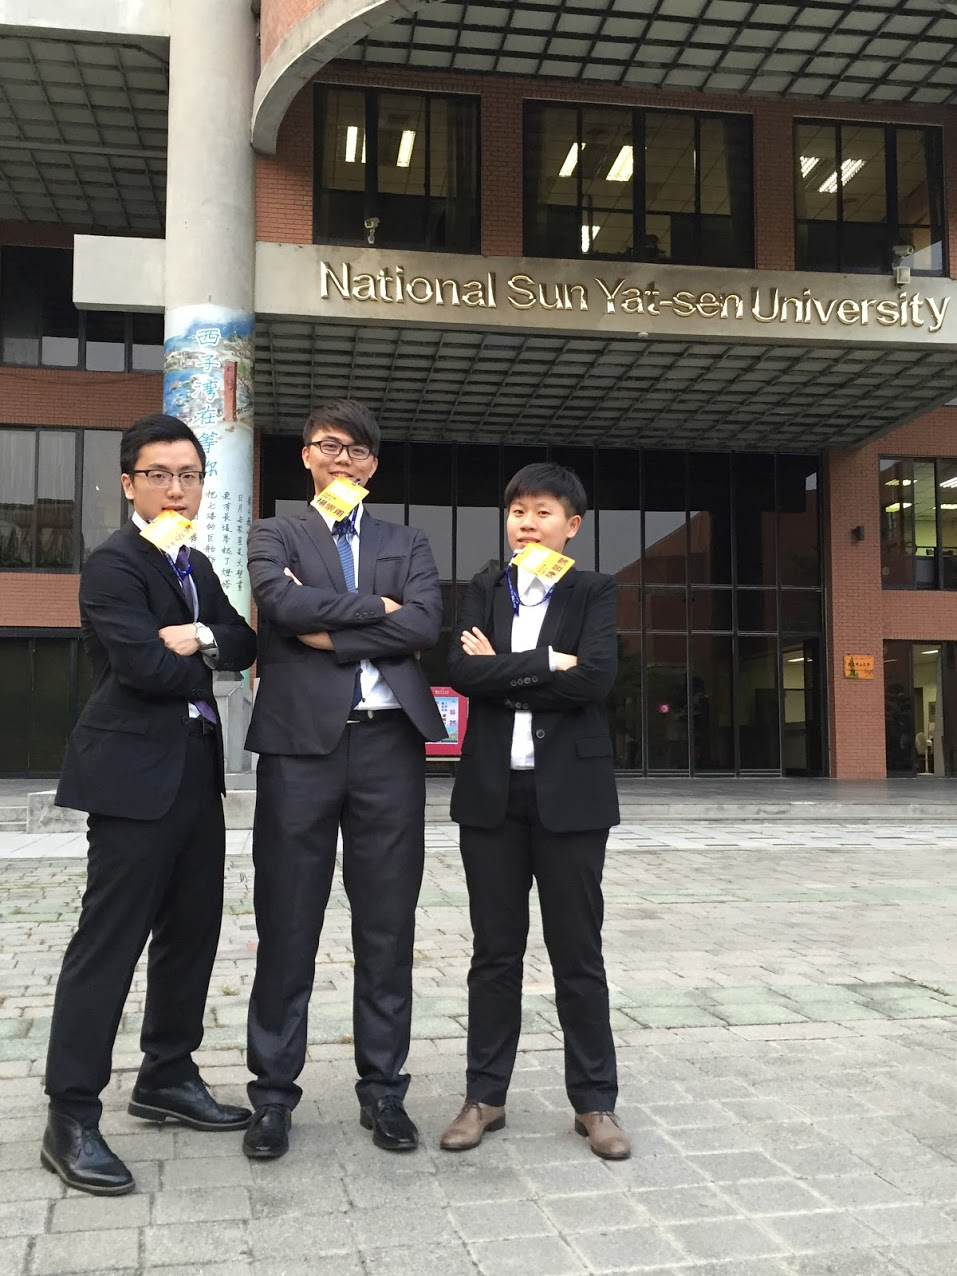
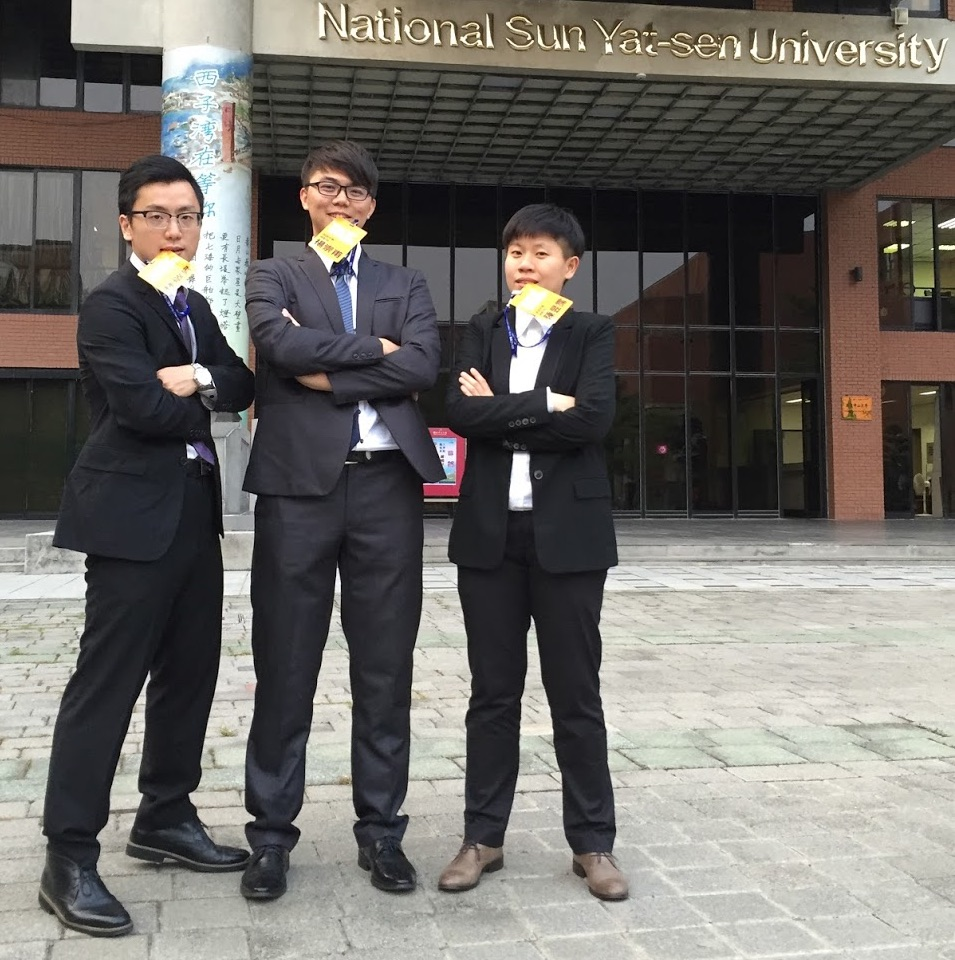
photo & 2016DSC updated

diff --git a/index.html b/index.html
@@ -31,7 +31,7 @@
 							<ul>
 								<li><a href="index.html">Home</a></li>
 								<li><a href="#member">成員介紹</a></li>
-								<li><a href="#intro">關於中心</a></li>
+								<li><a href="#banner">關於中心</a></li>
 								<li><a href="#activity">團隊活動</a></li>
 								<li><a href="#result">研究成果</a></li>
 							</ul>
@@ -39,7 +39,7 @@
 				</div>
 
 			<!-- Banner -->
-				<section id="banner">
+				<section id="banner" >
 					<header>
 						<h2>Hi All !</h2>
 						<p>
@@ -57,81 +57,71 @@
 							<header>
 								<h3><a href="#">LIN - 林敬昇</a></h3>
 							</header>
-							<p>團隊角色：團隊領導(2015 - 2016)<br>
-								 專長項目：資料清理、資料視覺化
-								 目前狀態：已畢</p>
 						</article>
 
 						<article>
-							<a href="#" class="image featured"><img src="images/pic02.jpg" alt="" /></a>
+							<a href="#" class="image featured"><img src="images/alger.jpg" alt="" /></a>
 							<header>
-								<h3><a href="#">Fermentum sagittis proin</a></h3>
+								<h3><a href="#">Alger - 楊崇甫</a></h3>
 							</header>
-							<p>Commodo id natoque malesuada sollicitudin elit suscipit magna.</p>
 						</article>
 
 						<article>
-							<a href="#" class="image featured"><img src="images/pic03.jpg" alt="" /></a>
+							<a href="#" class="image featured"><img src="images/gu.jpg" alt="" /></a>
 							<header>
-								<h3><a href="#">Sed quis rhoncus placerat</a></h3>
+								<h3><a href="#">GU - 陳昱霈</a></h3>
 							</header>
-							<p>Commodo id natoque malesuada sollicitudin elit suscipit magna.</p>
 						</article>
 
 						<article>
-							<a href="#" class="image featured"><img src="images/pic04.jpg" alt="" /></a>
+							<a href="#" class="image featured"><img src="images/horse.jpg" alt="" /></a>
 							<header>
-								<h3><a href="#">Ultrices urna sit lobortis</a></h3>
+								<h3><a href="#">Yin Yee</a></h3>
 							</header>
-							<p>Commodo id natoque malesuada sollicitudin elit suscipit magna.</p>
+
 						</article>
 
 						<article>
-							<a href="#" class="image featured"><img src="images/pic05.jpg" alt="" /></a>
+							<a href="#" class="image featured"><img src="images/00.jpg" alt="" /></a>
 							<header>
-								<h3><a href="#">Varius magnis sollicitudin</a></h3>
+								<h3><a href="#">許小0</a></h3>
 							</header>
-							<p>Commodo id natoque malesuada sollicitudin elit suscipit magna.</p>
 						</article>
 
 						<article>
-							<a href="#" class="image featured"><img src="images/pic01.jpg" alt="" /></a>
+							<a href="#" class="image featured"><img src="images/allen.jpg" alt="" /></a>
 							<header>
-								<h3><a href="#">Pulvinar sagittis congue</a></h3>
+								<h3><a href="#">簡于閔</a></h3>
 							</header>
-							<p>Commodo id natoque malesuada sollicitudin elit suscipit magna.</p>
 						</article>
 
 						<article>
-							<a href="#" class="image featured"><img src="images/pic02.jpg" alt="" /></a>
+							<a href="#" class="image featured"><img src="images/kaon.png" alt="" /></a>
 							<header>
-								<h3><a href="#">Fermentum sagittis proin</a></h3>
+								<h3><a href="#">梁家安</a></h3>
 							</header>
-							<p>Commodo id natoque malesuada sollicitudin elit suscipit magna.</p>
 						</article>
 
 						<article>
-							<a href="#" class="image featured"><img src="images/pic03.jpg" alt="" /></a>
+							<a href="#" class="image featured"><img src="images/z.png" alt="" /></a>
 							<header>
-								<h3><a href="#">Sed quis rhoncus placerat</a></h3>
+								<h3><a href="#">周立筠</a></h3>
 							</header>
-							<p>Commodo id natoque malesuada sollicitudin elit suscipit magna.</p>
 						</article>
 
 						<article>
-							<a href="#" class="image featured"><img src="images/pic04.jpg" alt="" /></a>
+							<a href="#" class="image featured"><img src="images/peiyi.jpg" alt="" /></a>
 							<header>
-								<h3><a href="#">Ultrices urna sit lobortis</a></h3>
+								<h3><a href="#">連珮宜</a></h3>
 							</header>
-							<p>Commodo id natoque malesuada sollicitudin elit suscipit magna.</p>
 						</article>
 
 						<article>
-							<a href="#" class="image featured"><img src="images/pic05.jpg" alt="" /></a>
+							<a href="#" class="image featured"><img src="images/ray.jpg" alt="" /></a>
 							<header>
-								<h3><a href="#">Varius magnis sollicitudin</a></h3>
+								<h3><a href="#">曹瑞軒</a></h3>
 							</header>
-							<p>Commodo id natoque malesuada sollicitudin elit suscipit magna.</p>
+
 						</article>
 
 					</div>
@@ -141,7 +131,7 @@
 				<div class="wrapper style2">
 
 					<article id="main" class="container special">
-						<a href="#" class="image featured"><img src="images/teamall.JPG" alt="" /></a>
+						<a href="#" class="image featured"><img src="images/2016DSC.JPG" alt="" /></a>
 						<header>
 							<h2><a href="#intro">關於中心</a></h2>
 							<p>
@@ -167,12 +157,21 @@
 						</header>
 						<div class="row">
 							<article class="4u 12u(mobile) special">
-								<a href="#" class="image featured"><img src="images/dspR.jpg" alt="" /></a>
+								<a href="#" class="image featured"><img src="images/2016DSC.JPG" alt="" /></a>
 								<header>
-									資料科學R講師
+									<h3>R課程助教 - 2016臺灣資料科學年會</h3>
 								</header>
 								<p>
-									於DSP智庫驅動2016年資料科學夏令營，三位團隊成員擔任Day1-Day4的R課程講師。協助50位學員在4天內快速上手R軟體
+									2016年於臺灣資料科學年會中，七位團隊成員擔任Day1-Day2的R課程助教。協助100位學員在2天內處理非結構化的資料、耙梳資料的脈絡並且整合迥異的資料源。進行關連性分析、叢聚分析以及資料分類以發掘出隱含於資料中真正的價值。
+								</p>
+							</article>
+							<article class="4u 12u(mobile) special">
+								<a href="#" class="image featured"><img src="images/dspR.jpg" alt="" /></a>
+								<header>
+									<h3>R講師 - DSP Data Camp 2016</h3>
+								</header>
+								<p>
+									2016年於DSP智庫驅動資料科學夏令營，三位團隊成員擔任Day1-Day4的R課程講師。協助50位學員在4天內快速上手R軟體
 								</p>
 							</article>
 							<article class="4u 12u(mobile) special">
